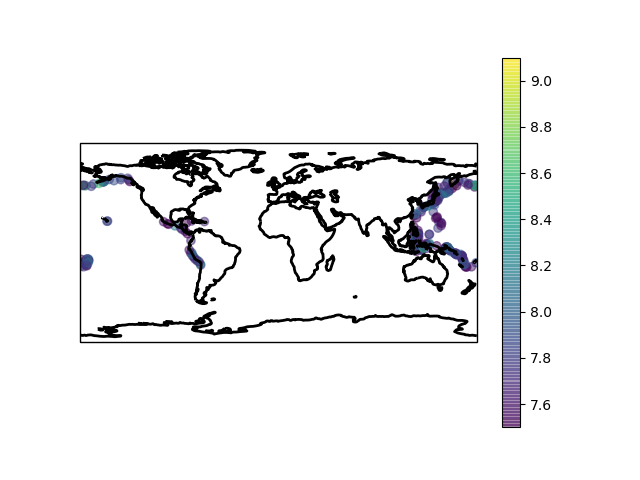
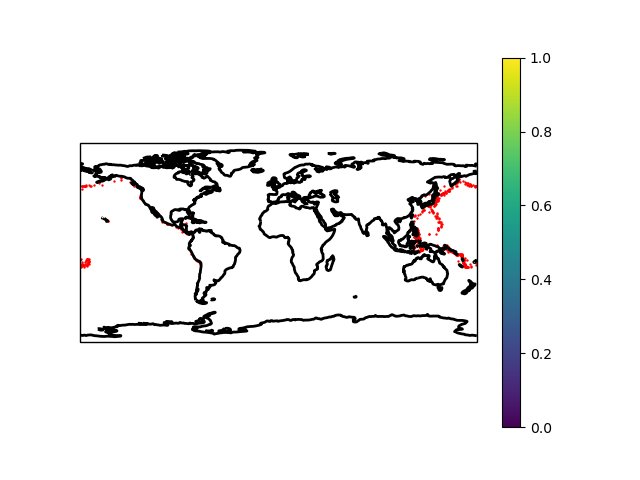
solver

diff --git a/sample_epi.py b/sample_epi.py
@@ -1,37 +1,29 @@
 import pandas as pd
-import numpy as np
 import os
-
-
-# def get_epi():
-#     dir = os.getcwd()+"/csvData/"
-#     fname = "eqs_gt_75_npac.csv"
-#     epi_df = pd.read_csv(dir+fname, sep=',')
-#     locs = np.zeros((len(epi_df), 2))
-#     epi_df['corrected_lons'] = epi_df['longitude'].apply(lambda x: 360. + x if x < 0 else x)
-#     locs[:, 0] = epi_df['corrected_lons'].to_numpy()
-#     locs[:, 1] = epi_df['latitude'].to_numpy()
-#     loc_idx = np.random.randint(0,len(epi_df)-1)
-#     U1 = np.random.uniform()
-#     U2 = np.random.uniform()
-#     rlong = 5./54.6
-#     rlat = 5./69.
-#     long_sample = rlong * np.sqrt(U2) * np.cos(2 * np.pi * U1) + locs[loc_idx][0]
-#     lat_sample = rlat * np.sqrt(U2) * np.sin(2 * np.pi * U1) + locs[loc_idx][1]
-#     return long_sample, lat_sample
-
+import random
+import numpy as np
 
 def get_lons():
     dir = os.getcwd()+"/csvData/"
-    fname = "eq_gt_75_npac.csv"
+    fname = "eq_gt_7_depth_gt_1000_npac.csv"
     epi_df = pd.read_csv(dir+fname, sep=',')
     epi_df['corrected_lons'] = epi_df['longitude'].apply(lambda x: 360. + x if x < 0 else x)
     lons = epi_df['corrected_lons'].to_numpy()
+    float_formatter = "{:.4f}".format
+    np.set_printoptions(formatter={'float_kind': float_formatter})
     return lons
 
 def get_lats():
     dir = os.getcwd()+"/csvData/"
-    fname = "eq_gt_75_npac.csv"
+    fname = "eq_gt_7_depth_gt_1000_npac.csv"
     epi_df = pd.read_csv(dir+fname, sep=',')
     lats = epi_df['latitude'].to_numpy()
+    float_formatter = "{:.4f}".format
+    np.set_printoptions(formatter={'float_kind': float_formatter})
     return lats
+
+def get_ids(n):
+    dir = os.getcwd() + "/csvData/"
+    fname = "eq_gt_7_depth_gt_1000_npac.csv"
+    epi_df = pd.read_csv(dir + fname, sep=',')
+    return str(random.sample(range(len(epi_df)),int(n)))

diff --git a/misc/tst_epis_buoys.py b/misc/tst_epis_buoys.py
@@ -8,7 +8,8 @@ import numpy as np
 import os
 
 proj = os.path.normpath(os.getcwd() + os.sep + os.pardir)
-fname = "eq_gt_75_npac.csv"
+#fname = "eq_gt_75_npac.csv"
+fname = "eq_gt_7_depth_gt_1000_npac.csv"
 epi_df = pd.read_csv(proj+"/csvData/"+fname, sep=',')
 
 lats = epi_df['latitude'].to_numpy()
@@ -23,7 +24,7 @@ print("max epi lats:",np.max(lats))
 ax = plt.axes(projection=ccrs.PlateCarree())
 ax.set_global()
 ax.coastlines(resolution='110m', color='black', linewidth=2)
-im = ax.scatter(lons,lats,c=mags,cmap='viridis',alpha=.5,transform=ccrs.PlateCarree())
+im = ax.scatter(lons,lats,color='r',s=.5,transform=ccrs.PlateCarree())
 cb = plt.colorbar(im)
 plt.savefig(proj+"/figs/"+"epis_1.png")
 

diff --git a/solver/swe.py b/solver/swe.py
@@ -42,12 +42,13 @@ def swe(cnfg):
     name = cnfg.mpas_file
     path, file = os.path.split(name)
     if cnfg.counter:
+        float_formatter = "{:.4f}".format
         ctr = cnfg.counter
-        epi_long = cnfg.epi_long
-        epi_lat = cnfg.epi_lat
+        epi_long = float_formatter(cnfg.epi_long)
+        epi_lat = float_formatter(cnfg.epi_lat)
         save = os.path.join(path, str(ctr) + "_" + str(epi_long) + "_" + str(epi_lat) + ".nc")
     else:
-        save = save = os.path.join(path, "out_" + file)
+        save = os.path.join(path, "out_" + file)
 
     print("Loading input assets...")
     
